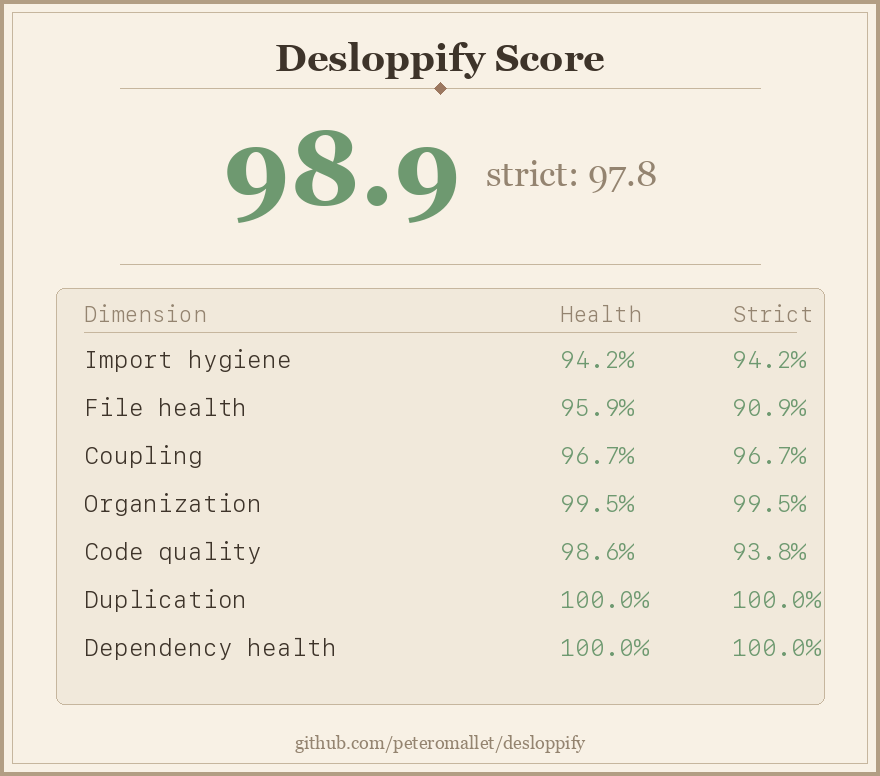
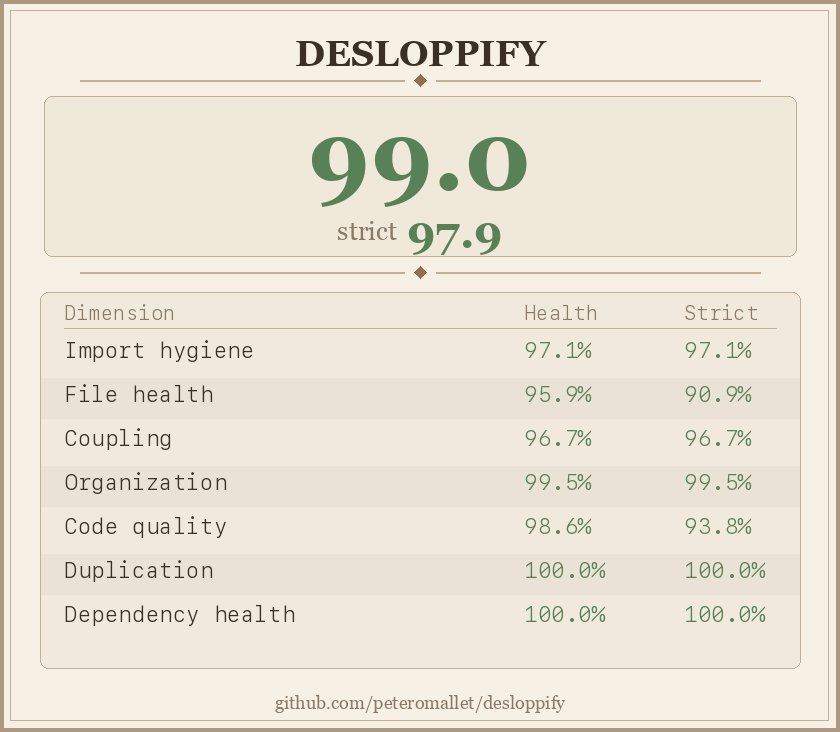
feat: redesigned scorecard — Wes Anderson aesthetic, 2x retina, ask-to-add
Score panel with breathing room, alternating row tints, diamond ornamental
rules, double frame, Georgia serif, warm cream palette. Scan output checks
README for existing badge ref — if missing, prompts bot to ask user about
adding it. README text updated.

diff --git a/desloppify/badge.py b/desloppify/badge.py
@@ -12,12 +12,12 @@ _SCALE = 2
 
 
 def _score_color(score: float) -> tuple[int, int, int]:
-    """Color-code a score with warm tones: sage >= 90, mustard 70-90, dusty rose < 70."""
+    """Color-code a score: deep sage >= 90, mustard 70-90, dusty rose < 70."""
     if score >= 90:
-        return (110, 153, 112)   # sage green
+        return (88, 129, 87)     # deep sage
     if score >= 70:
-        return (196, 164, 90)    # mustard
-    return (185, 110, 110)       # dusty rose
+        return (178, 148, 72)    # warm mustard
+    return (168, 90, 90)         # dusty rose
 
 
 def _load_font(size: int, *, serif: bool = False, bold: bool = False, mono: bool = False):
@@ -71,6 +71,21 @@ def _s(v: int | float) -> int:
     return int(v * _SCALE)
 
 
+def _draw_ornament(draw, cx: int, cy: int, size: int, fill):
+    """Draw a small diamond ornament centered at (cx, cy)."""
+    draw.polygon([
+        (cx, cy - size), (cx + size, cy), (cx, cy + size), (cx - size, cy),
+    ], fill=fill)
+
+
+def _draw_rule_with_ornament(draw, y: int, x1: int, x2: int, cx: int, line_fill, ornament_fill):
+    """Draw a horizontal rule with a diamond ornament in the center."""
+    gap = _s(8)
+    draw.rectangle((x1, y, cx - gap, y + 1), fill=line_fill)
+    draw.rectangle((cx + gap, y, x2, y + 1), fill=line_fill)
+    _draw_ornament(draw, cx, y, _s(3), ornament_fill)
+
+
 def generate_scorecard(state: dict, output_path: str | Path) -> Path:
     """Render a scorecard PNG from scan state. Returns the output path."""
     from PIL import Image, ImageDraw
@@ -84,119 +99,120 @@ def generate_scorecard(state: dict, output_path: str | Path) -> Path:
     strict_score = obj_strict if obj_strict is not None else state.get("strict_score", 0)
 
     # Fonts — serif for headings, mono for data
-    font_title = _load_font(19, serif=True, bold=True)
-    font_big = _load_font(52, serif=True, bold=True)
-    font_strict = _load_font(18, serif=True)
-    font_label = _load_font(11, serif=True)
-    font_header = _load_font(11, mono=True)
-    font_row = _load_font(12, mono=True)
+    font_title = _load_font(18, serif=True, bold=True)
+    font_big = _load_font(48, serif=True, bold=True)
+    font_strict_label = _load_font(13, serif=True)
+    font_strict_val = _load_font(22, serif=True, bold=True)
+    font_header = _load_font(10, mono=True)
+    font_row = _load_font(11, mono=True)
     font_tiny = _load_font(9, serif=True)
 
-    # Wes Anderson palette — warm cream with muted accents
-    BG = (248, 241, 229)           # warm cream
-    BG_TABLE = (241, 233, 219)     # slightly darker cream for table
-    TEXT = (62, 52, 42)            # warm dark brown
-    DIM = (148, 132, 112)         # warm muted brown
-    BORDER = (198, 182, 158)      # warm tan border
-    ACCENT = (156, 120, 96)       # warm brown accent
-    SCORE_GREEN = (110, 153, 112) # sage green
-    FRAME = (178, 158, 132)       # frame color
+    # Wes Anderson palette
+    BG = (247, 240, 228)           # warm cream
+    BG_SCORE = (240, 232, 217)     # slightly warm panel behind score
+    BG_TABLE = (240, 233, 220)     # table background
+    BG_ROW_ALT = (234, 226, 212)   # alternating row tint
+    TEXT = (58, 48, 38)            # warm dark brown
+    DIM = (138, 122, 102)         # warm muted
+    BORDER = (192, 176, 152)      # tan border
+    ACCENT = (148, 112, 82)       # warm brown accent
+    FRAME = (172, 152, 126)       # frame color
 
     # Layout
     active_dims = [(name, data) for name, data in dim_scores.items()
                    if data.get("checks", 0) > 0]
     row_count = len(active_dims)
-    W = _s(440)
-    pad = _s(24)
-    frame_w = _s(2)
+    W = _s(420)
+    margin = _s(12)
+    inner = _s(18)
     table_top = _s(146)
-    row_h = _s(24)
-    table_h = _s(26) + row_count * row_h + _s(12)
-    H = table_top + table_h + _s(36)
+    row_h = _s(22)
+    table_h = _s(24) + row_count * row_h + _s(10)
+    H = table_top + table_h + _s(32)
 
     img = Image.new("RGB", (W, H), BG)
     draw = ImageDraw.Draw(img)
 
-    # --- Outer frame (Wes Anderson loves deliberate borders) ---
+    # --- Double frame ---
     draw.rectangle((0, 0, W - 1, H - 1), outline=FRAME, width=_s(2))
-    # Inner frame with slight inset
-    inset = _s(6)
-    draw.rectangle((inset, inset, W - 1 - inset, H - 1 - inset), outline=BORDER, width=1)
-
-    # --- Decorative rule under title area ---
-    rule_y = _s(44)
-    rule_margin = _s(60)
-    draw.rectangle((rule_margin, rule_y, W - rule_margin, rule_y), fill=BORDER)
-    # Small diamond in center of rule
-    diamond_cx = W // 2
-    diamond_s = _s(3)
-    draw.polygon([
-        (diamond_cx, rule_y - diamond_s),
-        (diamond_cx + diamond_s, rule_y),
-        (diamond_cx, rule_y + diamond_s),
-        (diamond_cx - diamond_s, rule_y),
-    ], fill=ACCENT)
+    draw.rectangle((_s(5), _s(5), W - _s(6), H - _s(6)), outline=BORDER, width=1)
 
     # --- Title ---
-    title = "Desloppify Score"
+    title = "DESLOPPIFY"
     tw = draw.textlength(title, font=font_title)
-    draw.text(((W - tw) / 2, _s(18)), title, fill=TEXT, font=font_title)
+    draw.text(((W - tw) / 2, _s(16)), title, fill=TEXT, font=font_title)
 
-    # --- Main score ---
+    # --- Ornamental rule below title ---
+    rule_y = _s(40)
+    rule_margin = _s(40)
+    _draw_rule_with_ornament(draw, rule_y, rule_margin, W - rule_margin, W // 2, BORDER, ACCENT)
+
+    # --- Score panel ---
+    panel_top = _s(48)
+    panel_bot = _s(128)
+    panel_margin = inner + _s(4)
+    draw.rounded_rectangle(
+        (panel_margin, panel_top, W - panel_margin, panel_bot),
+        radius=_s(4), fill=BG_SCORE, outline=BORDER, width=1)
+
+    # Main score — centered in panel
     score_str = f"{main_score:.1f}"
     score_color = _score_color(main_score)
     sw = draw.textlength(score_str, font=font_big)
+    score_y = _s(50)
+    draw.text(((W - sw) / 2, score_y), score_str, fill=score_color, font=font_big)
 
-    strict_str = f"strict: {strict_score:.1f}"
-    strict_w = draw.textlength(strict_str, font=font_strict)
+    # "strict" label + value below main score, nicely baseline-aligned
+    strict_label = "strict"
+    strict_val = f"{strict_score:.1f}"
+    sl_w = draw.textlength(strict_label, font=font_strict_label)
+    sv_w = draw.textlength(strict_val, font=font_strict_val)
+    gap = _s(5)
+    strict_total = sl_w + gap + sv_w
+    strict_x = (W - strict_total) / 2
+    strict_baseline = _s(108)
+    draw.text((strict_x, strict_baseline), strict_label, fill=DIM, font=font_strict_label)
+    draw.text((strict_x + sl_w + gap, strict_baseline - _s(5)), strict_val, fill=_score_color(strict_score), font=font_strict_val)
 
-    # Center the pair
-    gap = _s(12)
-    total_w = sw + gap + strict_w
-    x_start = (W - total_w) / 2
-    score_y = _s(54)
-    draw.text((x_start, score_y), score_str, fill=score_color, font=font_big)
-    strict_y = score_y + _s(22)
-    draw.text((x_start + sw + gap, strict_y), strict_str, fill=DIM, font=font_strict)
-
-    # --- Decorative rule above table ---
-    rule2_y = table_top - _s(14)
-    draw.rectangle((rule_margin, rule2_y, W - rule_margin, rule2_y), fill=BORDER)
+    # --- Ornamental rule above table ---
+    rule2_y = table_top - _s(10)
+    _draw_rule_with_ornament(draw, rule2_y, rule_margin, W - rule_margin, W // 2, BORDER, ACCENT)
 
     # --- Table area ---
-    table_x1 = pad + _s(4)
-    table_x2 = W - pad - _s(4)
+    table_x1 = inner + _s(2)
+    table_x2 = W - inner - _s(2)
     draw.rounded_rectangle(
-        (table_x1, table_top - _s(2), table_x2, table_top + table_h),
+        (table_x1, table_top, table_x2, table_top + table_h),
         radius=_s(4), fill=BG_TABLE, outline=BORDER, width=1)
 
     # --- Table header ---
-    col_name = table_x1 + _s(14)
-    col_health = _s(280)
-    col_strict = _s(366)
+    col_name = table_x1 + _s(12)
+    col_health = _s(262)
+    col_strict = _s(342)
     header_y = table_top + _s(4)
     draw.text((col_name, header_y), "Dimension", fill=DIM, font=font_header)
     draw.text((col_health, header_y), "Health", fill=DIM, font=font_header)
     draw.text((col_strict, header_y), "Strict", fill=DIM, font=font_header)
 
     # Header underline
-    line_y = header_y + _s(16)
-    draw.rectangle((col_name, line_y, table_x2 - _s(14), line_y), fill=BORDER)
+    line_y = header_y + _s(14)
+    draw.rectangle((col_name, line_y, table_x2 - _s(12), line_y), fill=BORDER)
 
-    # --- Dimension rows ---
-    y = line_y + _s(6)
-    for name, data in active_dims:
+    # --- Dimension rows with alternating tint ---
+    y = line_y + _s(4)
+    for i, (name, data) in enumerate(active_dims):
+        # Alternating row background
+        if i % 2 == 1:
+            draw.rectangle((table_x1 + 1, y - _s(1), table_x2 - 1, y + row_h - _s(3)), fill=BG_ROW_ALT)
         score = data.get("score", 100)
         strict = data.get("strict", score)
-        sc = _score_color(score)
-        stc = _score_color(strict)
         draw.text((col_name, y), name, fill=TEXT, font=font_row)
-        draw.text((col_health, y), f"{score:.1f}%", fill=sc, font=font_row)
-        draw.text((col_strict, y), f"{strict:.1f}%", fill=stc, font=font_row)
+        draw.text((col_health, y), f"{score:.1f}%", fill=_score_color(score), font=font_row)
+        draw.text((col_strict, y), f"{strict:.1f}%", fill=_score_color(strict), font=font_row)
         y += row_h
 
     # --- Footer ---
-    footer_y = H - _s(22)
+    footer_y = H - _s(20)
     footer = "github.com/peteromallet/desloppify"
     fw = draw.textlength(footer, font=font_tiny)
     draw.text(((W - fw) / 2, footer_y), footer, fill=DIM, font=font_tiny)

diff --git a/README.md b/README.md
@@ -2,9 +2,9 @@
 
 Codebase health scanner. Detects cruft (dead code, duplication, complexity, smells), tracks findings across scans, auto-fixes mechanical issues, reports a weighted score. TypeScript/React and Python out of the box — [add your own language](#adding-a-language) with one directory.
 
-Every scan generates a scorecard badge you can add to your README:
+Every scan generates a scorecard badge you can add to your README — here's the one for this repo:
 
-<img src="scorecard.png" width="400">
+<img src="scorecard.png" width="380">
 
 ## Install
 
